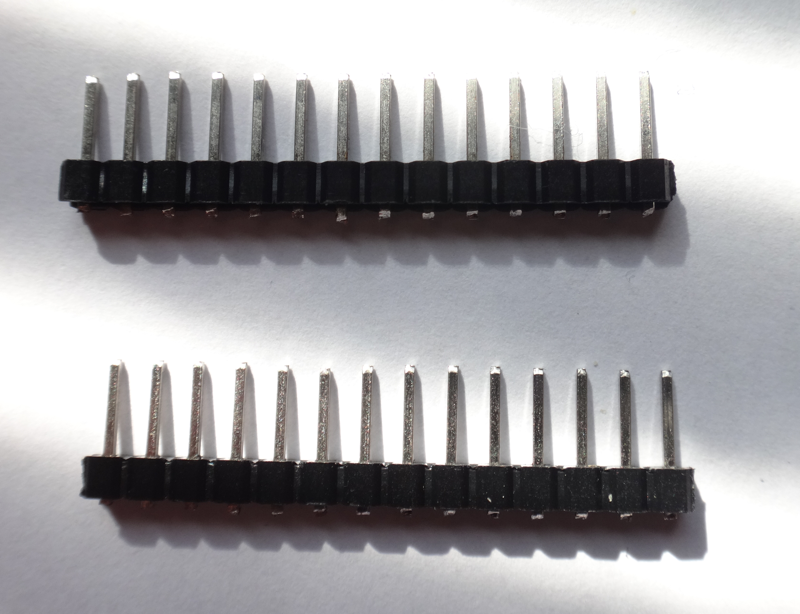
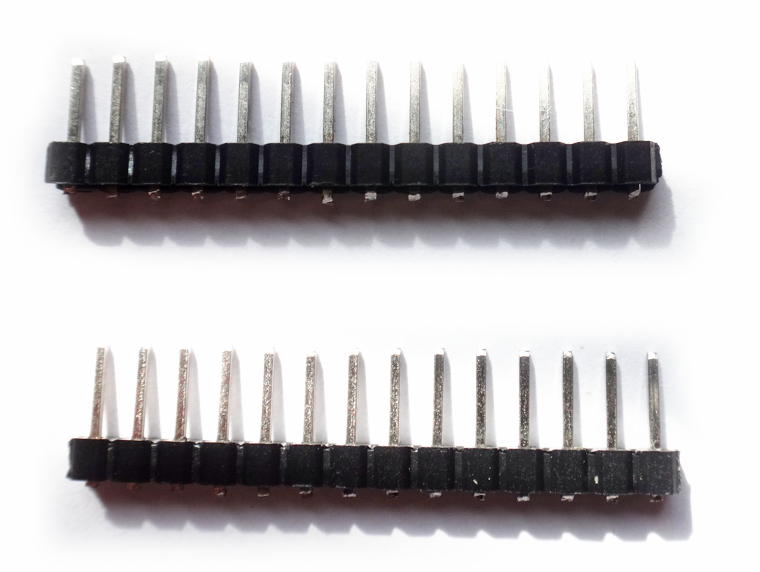
started writing instructions for latest build3

diff --git a/doc/Build_InstructionsV2/README.md b/doc/Build_InstructionsV2/README.md
@@ -1,6 +1,6 @@
 **UPDATE 27/05/2022:**
 
-these are the build instructions for the newest version, using low height pin socket rows, instead of IC sockets.
+these are the build instructions for the newest version (V2), using low height pin socket rows, instead of IC sockets.
 
 The matching BOM will be updated/compiled in the next days. 
 
@@ -13,11 +13,17 @@ Advantages :
 2.  no double / stacked special connector for the display, replaced by 1 standard connector.
 3.  much stronger pin binding for teensy and audio board to the PCB.
 4.  no more pin bending tricks required, pin locations are exactly where they are supposed to be.
+<br>
 
------
 <p>
-MicroDexed-touch is still in early development. However, these instructions should not change much in general in their steps. Some building/case parts and "look" might change rapidly. 
+> MicroDexed-touch is still in early development. However, these instructions should not change much in general in their steps. Some building/case parts and "look" might change rapidly.
+<p> 
 
+
+<br>
+
+<p>
+# Build instructions for newest version (V2)
 <br>
 <img src="https://codeberg.org/positionhigh/MicroDexed-touch/raw/branch/main/doc/Build_InstructionsV2/front.png" >
 <br>
@@ -34,18 +40,47 @@ Begin with the resistors. You need 4, the values are printed on the board and ar
 <p>
 <img src="https://codeberg.org/positionhigh/MicroDexed-touch/raw/branch/main/doc/Build_InstructionsV2/6n138.png" >
 <br>
-The 6n138 Optocoupler for MIDI. Make sure Pin 1 is on the top left. Your chip will either have a notch at the top side or a circle marking at the first pin. You can use an old-school socket, solder it in directly or use a socket with (round) precision pins. All of these 3 methods should work fine.
+The 6n138 Optocoupler for MIDI. Make sure Pin 1 is on the top left. Your chip will either have a notch at the top side or a circle marking at the first pin. You can use an old-school IC socket, solder it in directly or use a socket with (round) precision pins. All of these 3 methods should work fine.
 <p>
 <img src="https://codeberg.org/positionhigh/MicroDexed-touch/raw/branch/main/doc/Build_InstructionsV2/jumpers.png" >
 <br>
-Nothing special about the jumpers. Solder in for all of them 2 pin horizontal pin headers. For the 2 Encoder connections, it is advised to use vertical pin headers. 
+Nothing special about all of the 2-pin jumpers. Solder in for all of them 2 pin horizontal pin headers. 
 <p>
-<img src="https://codeberg.org/positionhigh/MicroDexed-touch/raw/branch/main/doc/Build_InstructionsV2/special_headers1.jpg" >
+<img src="https://codeberg.org/positionhigh/MicroDexed-touch/raw/branch/main/doc/Build_InstructionsV2/encoderconnector.png" >
+
+For the 2 Encoder connections, it is advised to use vertical pin headers - Also, depending on your encoders, for example when they have a small pcb on their bottom to connect the pins instead directly to the decoder, it might be an good idea to solder in the pin headers very lowly as seen in this image.<p>
+This way they will use the free space "above" the Encoder-PCB and not collide with them.  
+<p>
+
 <br>
-    For the Teensy and the Audio Board you have to use the old-school IC sockets with pins from both sides. Do not get precision IC Sockets with round pins, the Standard Pins will not fit in there.
-    Aside from that, this is the most tricky part to do. You will find that beside the Teensy IC Socket, there is not enough space to put in the 4-5 pin socket for USB HOST.
+<p>
+    For the Teensy and for the Audio Board, in this build we will use pin socket rows instead of the old-school IC sockets. The Sockets will be soldered to the main PCB.<p>
+    <img src="https://codeberg.org/positionhigh/MicroDexed-touch/raw/branch/main/doc/Build_InstructionsV2/pinsandsocket.png" >
     
-The pins must be bend to fit in. See the following 3 pictures how to get this done. It is not difficult but it will take some time to fit them in for the socket and for the connector pins, coming from the teensy.
+As the counterpart, we will use tradition rows of pin header with the short side of the plastic spacer snipped off.
+<br><p>
+
+ <img src="https://codeberg.org/positionhigh/MicroDexed-touch/raw/branch/main/doc/Build_InstructionsV2/cut-pins-teensy.png" >
+ For the Teensy we need 2 pieces of 24 pins<br>
+  
+ <img src="https://codeberg.org/positionhigh/MicroDexed-touch/raw/branch/main/doc/Build_InstructionsV2/cut-pins-audio.png" >
+ and for the Audio Board we need 2 pieces with 14 pins
+ 
+<p>
+So for all 4 rows, 2 for the Teensy and 2 for the Audio Board, leave the plastic spacers exactly where they are at default and snip off the short pin side, directly above the spacer. <p>
+This is tiedeous. Take your time and make brakes.
+> please take care that you don't hurt yourself or others when you snip the pins. These pins are sharp when cut and will fly off. Place yourself so that the cut pins will not fly in your direction and use eye protection so nothing can happen in this process.
+> 
+    
+<p>
+After all 4 rows are cut like in the pictures, we will do the same procedure to a 4 pin row and a 3 pin row.
+The 4 pin row goes     
+    
+    
+    
+    
+    
+    
     For the audio out pins socket, there is nothing special. There is more than enough space, to put them in without any issues. Make sure that you are using pin headers that are as the same height as the socket.
     <br>
     The part used is:<br>
